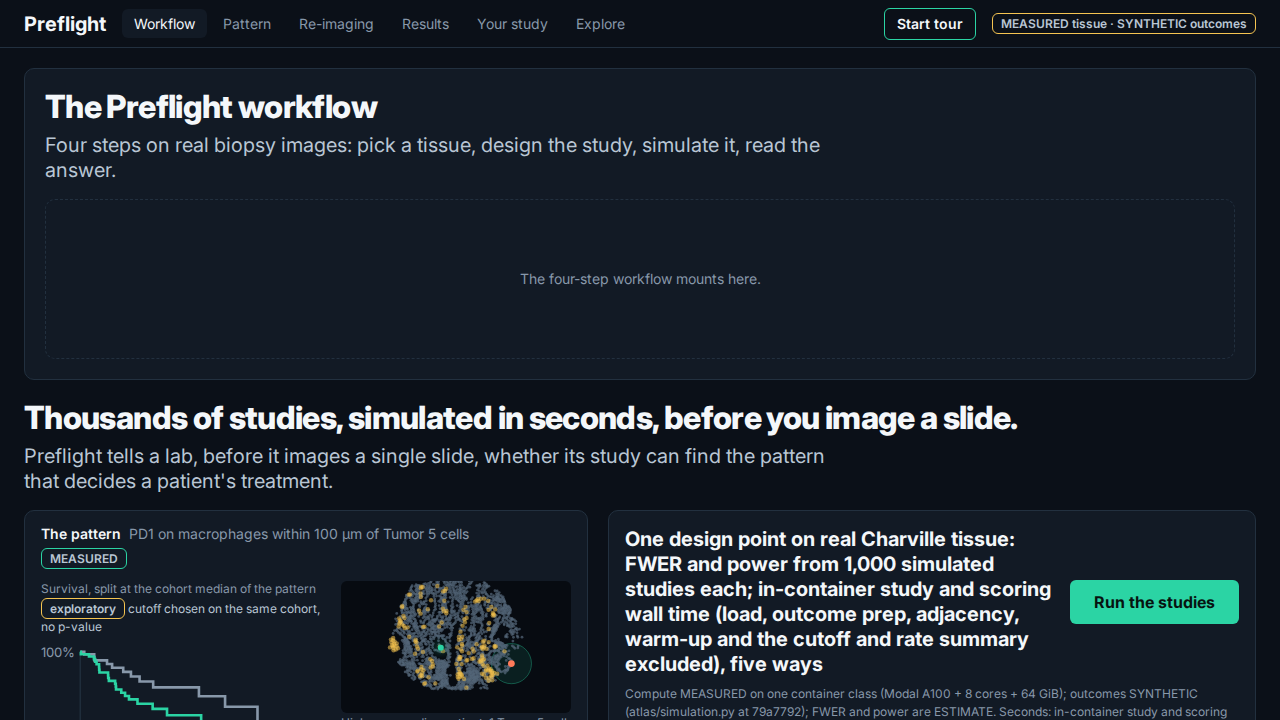
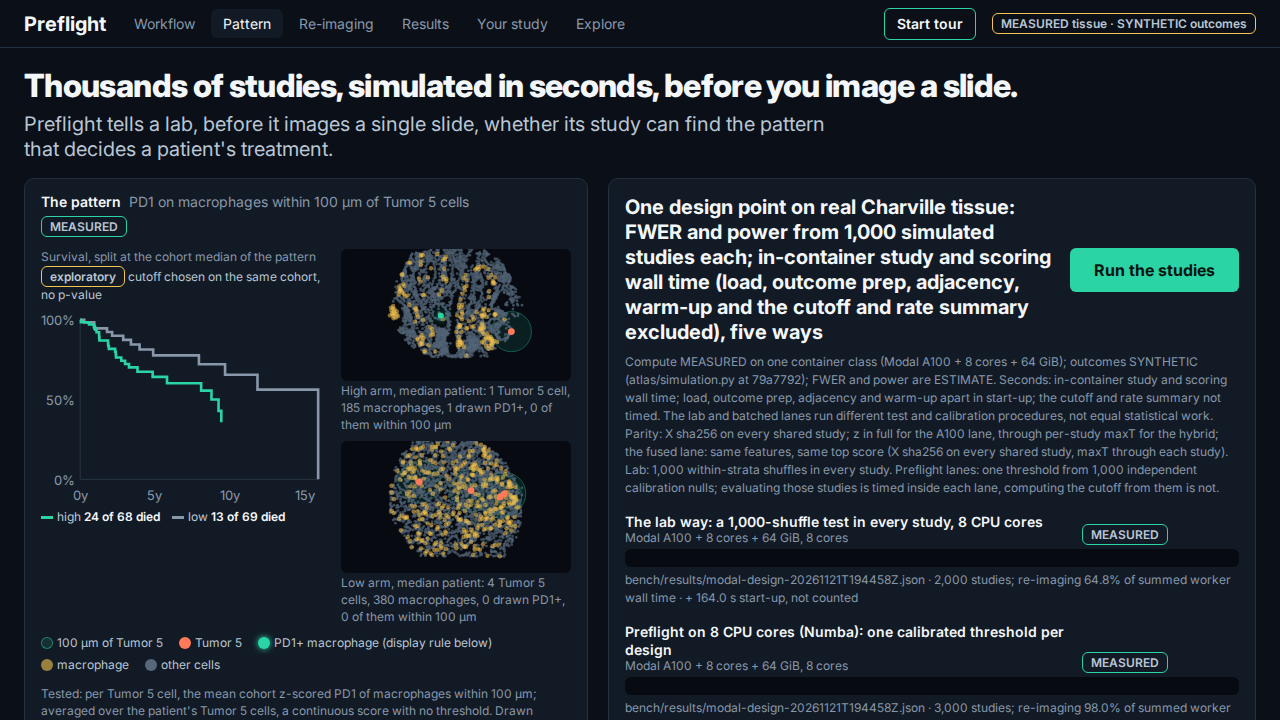
demo: point the Workflow nav link and tour stop 1 at build-demo's #flow
Drops the #workflow-app placeholder and its styles; the workflow PR adds
<section id="flow"> and mounts itself. Until it lands, the tour passes
over a stop whose section is missing.

diff --git a/demo/tour.js b/demo/tour.js
@@ -4,8 +4,8 @@
 export const SEEN_KEY = "preflight-tour-v1";
 
 export const STEPS = [
-  { target: "#workflow-app", title: "Start here: the Preflight workflow",
-    text: "Four steps on real biopsy images: pick a tissue, design the study, simulate it, read the answer. Each step says whether its numbers are measured or simulated." },
+  { target: "#flow", title: "Start here: the Preflight workflow",
+    text: "Four steps on real tumour tissue: the tissue, decoding it, stress-testing the study design, and the routine stains it comes down to. Each step labels its numbers as measured or simulated." },
   { target: ".bio", title: "The pattern",
     text: "A spatial pattern found in real Charville tumour tissue, with the survival curves it splits. It is exploratory: the cutoff was chosen on the same cohort, so no p-value is claimed." },
   { target: ".speed", title: "Run the studies",
@@ -91,8 +91,14 @@ function close() {
   opener?.focus({ preventScroll: true });
 }
 
+// A stop whose section is not on the page is passed over in the direction of travel.
 function go(move) {
-  const j = step(at, move);
+  let j = step(at, move);
+  while (j >= 0 && !document.querySelector(STEPS[j].target)) {
+    const k = step(j, move === "back" ? "back" : "next");
+    if (k === j) { j = at; break; }
+    j = k;
+  }
   if (j < 0) close(); else show(j);
 }
 
@@ -106,7 +112,8 @@ function onKey(e) {
 export function startTour(from = null) {
   opener = from;
   if (at < 0) { addEventListener("keydown", onKey); raf = requestAnimationFrame(loop); }
-  show(0);
+  at = -1;
+  go("next");
 }
 
 export function initTour() {

diff --git a/demo/style.css b/demo/style.css
@@ -323,17 +323,6 @@ html { scroll-padding-top: calc(var(--bar-h) + var(--space-3)); }
 .tour-btn:hover { background: var(--accent); color: var(--accent-ink); }
 .explore .app { max-width: none; padding-left: 0; padding-right: 0; }
 
-/* The Preflight workflow's place: first section; build-demo mounts into #wf-root */
-.wf { padding-top: var(--space-5); }
-.wf-card { padding: var(--space-5); }
-.wf-head h2 { font-size: var(--text-xl); line-height: var(--leading-display-sm); font-weight: 800; letter-spacing: -0.02em; }
-.wf-sub { margin-top: var(--space-2); color: var(--text-body); font-size: var(--text-lg); line-height: var(--leading-snug); max-width: 62ch; }
-.wf-root { margin-top: var(--space-4); }
-.wf-empty {
-  display: grid; place-items: center; min-height: 160px; border: 1px dashed var(--border); border-radius: var(--radius-surface);
-  color: var(--text-muted); font-size: var(--text-sm);
-}
-
 /* The tour: a spotlight on the feature, a coach card pinned to the bottom of the screen */
 .tour-spot {
   position: fixed; z-index: 30; pointer-events: none; border-radius: var(--radius-surface);
@@ -362,9 +351,6 @@ html { scroll-padding-top: calc(var(--bar-h) + var(--space-3)); }
   .bar { gap: var(--space-2); }
   .nav a { padding: var(--space-1) var(--space-2); }
   .bar .tag { margin-left: 0; }
-  .wf-card { padding: var(--space-4); }
-  .wf-head h2 { font-size: var(--text-lg); }
-  .wf-sub { font-size: var(--text-base); }
   .explore .app { padding-left: 0; padding-right: 0; }
   .tour-card { bottom: var(--space-3); padding: var(--space-4); }
 }

diff --git a/demo/index.html b/demo/index.html
@@ -13,7 +13,7 @@
   <header class="bar">
     <a class="wordmark" href="#top">Preflight</a>
     <nav class="nav" aria-label="Sections">
-      <a href="#workflow-app">Workflow</a>
+      <a href="#flow">Workflow</a>
       <a href="#pattern">Pattern</a>
       <a href="#reimage-sec">Re-imaging</a>
       <a href="#results">Results</a>
@@ -27,16 +27,6 @@
   <div class="error" id="error" role="alert" hidden></div>
 
   <main class="page">
-  <section class="wf" id="workflow-app" aria-labelledby="wf-title">
-    <div class="card wf-card">
-      <div class="wf-head">
-        <h2 id="wf-title">The Preflight workflow</h2>
-        <p class="wf-sub">Four steps on real biopsy images: pick a tissue, design the study, simulate it, read the answer.</p>
-      </div>
-      <div id="wf-root" class="wf-root"><p class="wf-empty">The four-step workflow mounts here.</p></div>
-    </div>
-  </section>
-
   <section class="hero" id="pattern" aria-labelledby="title">
     <div class="promise">
       <h1 id="title">Thousands of studies, simulated in seconds, before you image a slide.</h1>
